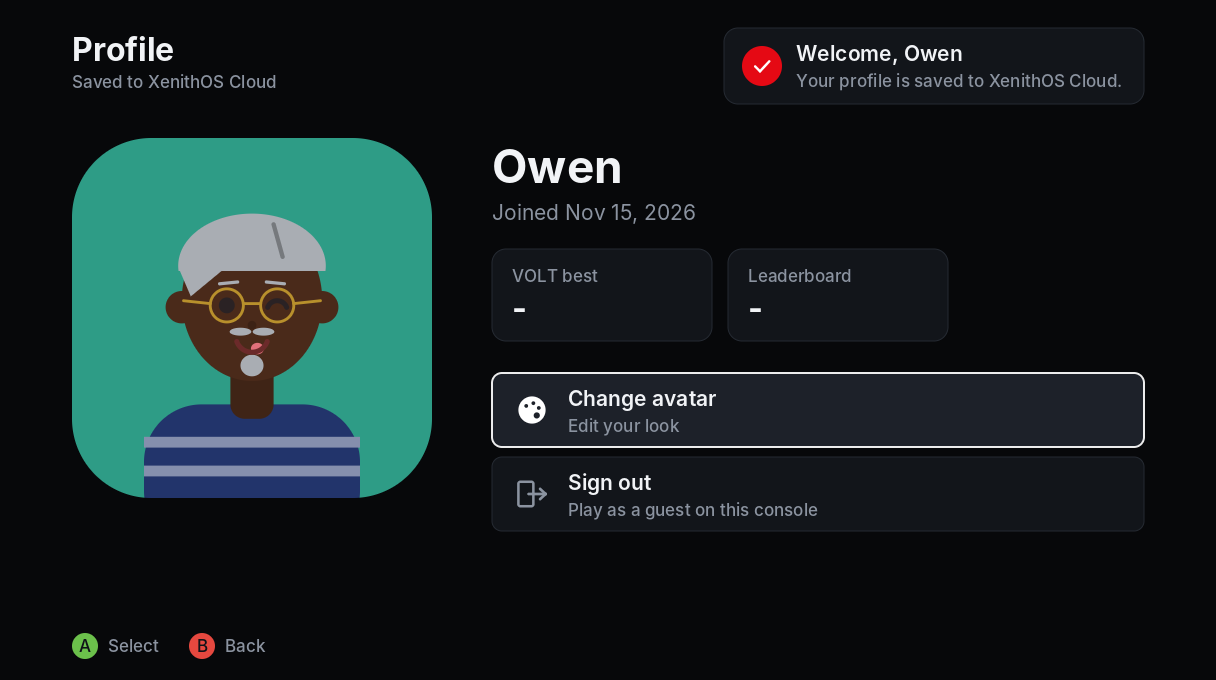
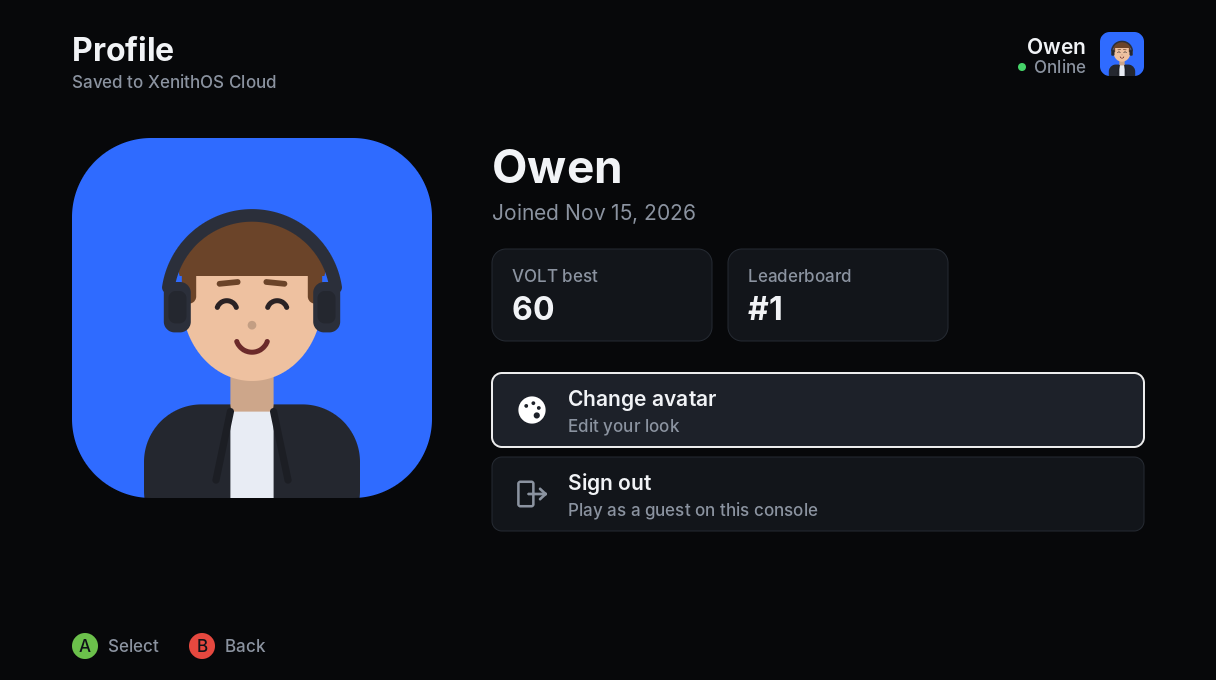
XenithOS site: back to owencosta.diy, no chime button or online pill, new screenshots
- A back button to owencosta.diy in the header; the top-right online pill and the
  start-up chime button are gone (the page's script no longer touches them).
- New screenshots from the simulator, signed in as Owen with his own avatar and taken
  after the welcome toast has gone, so the logo shows without CONSOLE (?v=2 past
  Cloudflare's cache).
- OCAccount wording; the Store's Apps section is Roblox and Minecraft; labels in the
  body font.

diff --git a/server/web/index.html b/server/web/index.html
@@ -36,21 +36,22 @@
   header.top { border-bottom: 1px solid rgba(255, 255, 255, 0.05); position: relative; }
   header.top .wrap { display: flex; align-items: center; gap: 14px; min-height: 56px; }
   header.top .home { display: inline-flex; align-items: center; margin-right: auto; }
+  .back { display: inline-flex; align-items: center; gap: 6px; padding: 6px 12px; border-radius: 8px; background: rgba(255, 255, 255, 0.08);
+          color: var(--text); text-decoration: none; font: 600 13px system-ui, sans-serif; white-space: nowrap; }
+  .back::before { content: "9"; font-size: 16px; line-height: 1; }
+  .back:hover { background: rgba(255, 255, 255, 0.16); color: #fff; }
   header.top nav { display: flex; gap: 16px; font-size: 14px; }
   header.top nav a { color: var(--sub); text-decoration: none; white-space: nowrap; }
   header.top nav a:hover { color: var(--text); }
   .menu-btn { display: none; background: none; border: 1px solid var(--line); color: var(--text); border-radius: 8px;
               padding: 6px 11px; font: 600 14px system-ui, sans-serif; cursor: pointer; }
-  .pill { display: inline-flex; align-items: center; gap: 7px; font: 12px var(--mono); color: var(--sub); white-space: nowrap; }
-  .dot { width: 8px; height: 8px; border-radius: 50%; background: var(--dim); }
-  .pill.on .dot { background: var(--ok); }
 
   .intro.wrap { padding-top: 48px; padding-bottom: 12px; }
   #logo { display: block; width: 420px; max-width: 90%; height: auto; margin-bottom: 26px; }
   .intro p { max-width: 42em; margin: 0 0 12px; }
   .intro p.sub { color: var(--sub); }
   .facts { display: flex; flex-wrap: wrap; gap: 6px 8px; margin: 16px 0 22px; }
-  .facts span { font: 12px/1.4 var(--mono); color: var(--sub); border: 1px solid var(--line); border-radius: 999px; padding: 4px 10px; white-space: nowrap; }
+  .facts span { font: 12px/1.4 system-ui, sans-serif; color: var(--sub); border: 1px solid var(--line); border-radius: 999px; padding: 4px 10px; white-space: nowrap; }
   .actions { display: flex; flex-wrap: wrap; gap: 10px; align-items: center; }
   .btn { display: inline-flex; align-items: center; gap: 8px; padding: 11px 20px; border-radius: 8px; border: 0;
          color: var(--text); background: rgba(255, 255, 255, 0.12); text-decoration: none; font: 600 14px system-ui, sans-serif; cursor: pointer; }
@@ -81,7 +82,7 @@
   .player small { color: var(--sub); font-size: 13px; }
 
   table { width: 100%; border-collapse: collapse; font-size: 15px; }
-  th { text-align: left; font: 12px var(--mono); color: var(--dim); font-weight: normal; padding: 0 12px 8px 0; }
+  th { text-align: left; font: 12px system-ui, sans-serif; color: var(--dim); font-weight: normal; padding: 0 12px 8px 0; }
   td { padding: 9px 12px 9px 0; border-top: 1px solid var(--line); vertical-align: middle; }
   td:last-child, th:last-child { padding-right: 0; }
   .num { font-family: var(--mono); text-align: right; white-space: nowrap; }
@@ -97,7 +98,7 @@
   .who .blank { width: 36px; height: 36px; background: var(--panel-2); }
   .item { display: flex; gap: 12px; align-items: center; min-width: 0; }
   .item img { width: 96px; height: 54px; border-radius: 8px; flex: none; background: var(--panel-2); }
-  .kind { font: 12px var(--mono); color: var(--dim); }
+  .kind { font: 12px system-ui, sans-serif; color: var(--dim); }
   #pc h3 { margin: 26px 0 4px; font-size: 16px; }
   .tiles { display: grid; grid-template-columns: repeat(auto-fill, minmax(160px, 1fr)); gap: 14px; margin: 14px 0 6px; }
   .tile { min-width: 0; }
@@ -117,8 +118,8 @@
 
   .log { list-style: none; padding: 0; margin: 0; max-width: 46em; }
   .log li { padding: 12px 0; border-top: 1px solid var(--line); }
-  .log b { font-family: var(--mono); color: var(--link); margin-right: 8px; }
-  .log time { font: 12px var(--mono); color: var(--dim); }
+  .log b { font-family: system-ui, sans-serif; color: var(--link); margin-right: 8px; }
+  .log time { font: 12px system-ui, sans-serif; color: var(--dim); }
   .log p { margin: 4px 0 0; color: var(--sub); font-size: 15px; }
 
   footer { border-top: 1px solid var(--line); padding: 24px 0 40px; color: var(--dim); font-size: 13px; }
@@ -148,6 +149,7 @@
 
 <header class="top">
   <div class="wrap">
+    <a class="back" href="https://owencosta.diy/">Owen Costa</a>
     <a class="home" href="#" aria-label="XenithOS, top of the page"><svg id="navlogo" height="26" aria-hidden="true"></svg></a>
     <nav id="nav" aria-label="XenithOS">
       <a href="#screens">Screens</a>
@@ -158,7 +160,6 @@
       <a href="https://owencosta.diy/account/">Account</a>
       <a href="https://github.com/OwenCosta/XenithOS">GitHub</a>
     </nav>
-    <span class="pill" id="pill"><span class="dot"></span><span id="pilltext">checking</span></span>
     <button class="menu-btn" id="menu-btn" type="button" aria-expanded="false" aria-controls="nav">Menu</button>
   </div>
 </header>
@@ -177,7 +178,6 @@
     <a class="btn primary" id="dl" href="download/xenithos-xbox360.zip" download="xenithos-xbox360.zip">Download for Xbox 360</a>
     <a class="btn" href="#pc">Install on a PC or Pi</a>
     <a class="btn" href="https://github.com/OwenCosta/XenithOS">Source code</a>
-    <button class="btn" id="chime" type="button" aria-label="Play the start-up chime">&#9654; Start-up chime</button>
   </div>
   <div class="sha" id="sha"></div>
 </div>
@@ -186,7 +186,7 @@
   <div class="wrap">
     <h2>What it looks like</h2>
     <p class="lead">These come from the XenithOS simulator, which runs the exact code that goes on the console and saves the frames as images.</p>
-    <div class="shot"><img id="shot" src="static/shot-home.png" alt="The XenithOS home screen" width="1216" height="680"></div>
+    <div class="shot"><img id="shot" src="static/shot-home.png?v=2" alt="The XenithOS home screen" width="1216" height="680"></div>
     <p class="caption" id="caption"></p>
     <div class="tabs" role="tablist" id="tabs"></div>
   </div>
@@ -195,7 +195,7 @@
 <section id="players">
   <div class="wrap">
     <h2>Players</h2>
-    <p class="lead">Everyone with a XenithOS profile. Your gamertag and avatar are saved to XenithOS Cloud, so they follow you to any Xbox, PC or Pi. You can link yours to an <a href="https://owencosta.diy/account/">OwenCosta account</a>, which works across Owen's other projects too.</p>
+    <p class="lead">Everyone with a XenithOS profile. Your gamertag and avatar are saved to XenithOS Cloud, so they follow you to any Xbox, PC or Pi. You can link yours to an <a href="https://owencosta.diy/account/">OCAccount</a>, which works across Owen's other projects too.</p>
     <div class="players" id="playerlist"><p class="muted">Loading...</p></div>
   </div>
 </section>
@@ -264,7 +264,7 @@
       <li><b>Desktop mode</b> is in XenithOS's power menu: the full Linux desktop, for a browser and everything else.</li>
       <li><b>Return to XenithOS</b> in the desktop's menu goes back to console mode.</li>
       <li><b>Updates</b> come from the Store: pick <b>XenithOS update</b>, and it builds the new version on your machine and restarts into it.</li>
-      <li><b>Apps</b> from Flathub and <b>Steam</b> are in the Store too (LB and RB switch sections). They install through XenithOS, start from its home screen and get the whole screen: hold Guide for three seconds to come back.</li>
+      <li><b>Roblox</b> and <b>Minecraft</b> are in the Store's Apps section too (LB and RB switch sections). They install from Flathub through XenithOS, start from its home screen and get the whole screen: hold Guide for three seconds to come back.</li>
     </ol>
     <h3>In the Store on PCs</h3>
     <p class="muted">Apps come from <a href="https://flathub.org/">Flathub</a> and run under their own licenses. Roblox runs through <a href="https://sober.vinegarhq.org/">Sober</a>, a community project that isn't made by Roblox (use it at your own risk), and only on x86-64 PCs. Steam games install and run through Steam with your Steam account: free games only need the account, others are bought on Steam. Machines installed before 0.5.4 need the install command once more for apps.</p>
@@ -379,7 +379,7 @@ const SHOTS = [
 ];
 function showShot(i) {
   const [id, name, text] = SHOTS[i];
-  $("shot").src = `static/shot-${id}.png`;
+  $("shot").src = `static/shot-${id}.png?v=2`;
   $("shot").alt = `XenithOS ${name} screen`;
   $("caption").textContent = text;
   [...$("tabs").children].forEach((b, j) => b.setAttribute("aria-selected", i === j ? "true" : "false"));
@@ -394,10 +394,6 @@ SHOTS.forEach(([id, name], i) => {
 });
 showShot(0);
 
-/* Chime */
-const chime = new Audio("static/chime.wav");
-$("chime").addEventListener("click", () => { chime.currentTime = 0; chime.play(); });
-
 /* Live data */
 const rows = (t) => t.split("\n").filter(Boolean).map((l) => l.split("|"));
 function td(tr, text, cls) { const c = document.createElement("td"); if (cls) c.className = cls; c.textContent = text; tr.appendChild(c); return c; }
@@ -411,8 +407,6 @@ async function refresh() {
   const get = (p) => fetch(p, { cache: "no-store" }).then((r) => { if (!r.ok) throw new Error(p); return r.text(); });
   try {
     const [sc, it, pl] = await Promise.all([get("v1/scores/volt"), get("v1/store"), get("v1/players")]);
-    $("pill").className = "pill on";
-    $("pilltext").textContent = "online";
 
     const board = $("board");
     board.replaceChildren();
@@ -496,8 +490,7 @@ async function refresh() {
       list.appendChild(card);
     });
   } catch (e) {
-    $("pill").className = "pill";
-    $("pilltext").textContent = "offline";
+    /* XenithOS Cloud isn't answering: the lists keep what they last showed */
   }
 }
 refresh();
